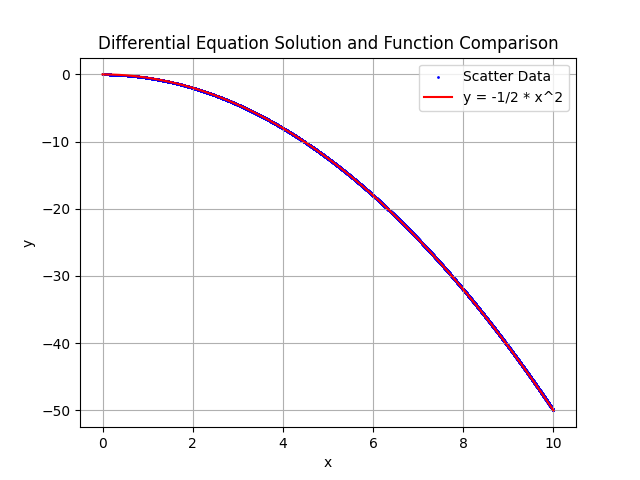
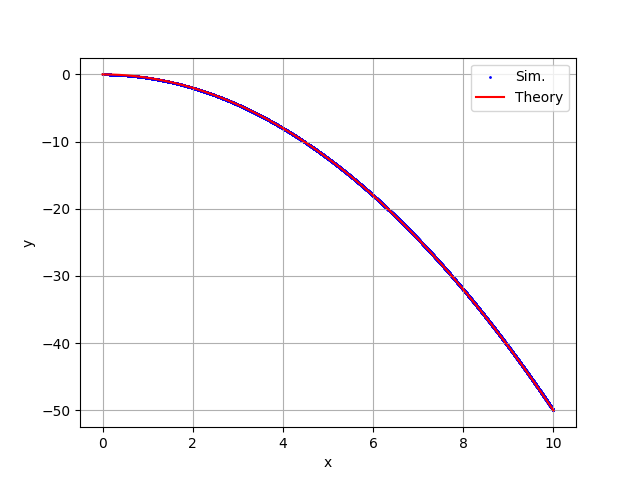
commit

Changed region(s): [[0.1562, 0.0625, 0.875, 0.2188], [0.6562, 0.1875, 0.6875, 0.2188]]

diff --git a/assignments/Problem1/codes/plot.py b/assignments/Problem1/codes/plot.py
@@ -47,9 +47,8 @@ x_values = np.arange(lowerbound + stepsize, upperbound + stepsize, stepsize)
 y_function = -0.5 * x_values**2
 
 # Plot the data
-plt.scatter(x_values, results, color='blue', s=1, label='Scatter Data')
-plt.plot(x_values, y_function, color='red', label='y = -1/2 * x^2')
-plt.title('Differential Equation Solution and Function Comparison')
+plt.scatter(x_values, results, color='blue', s=1, label='Sim.')
+plt.plot(x_values, y_function, color='red', label='Theory')
 plt.xlabel('x')
 plt.ylabel('y')
 plt.legend()
